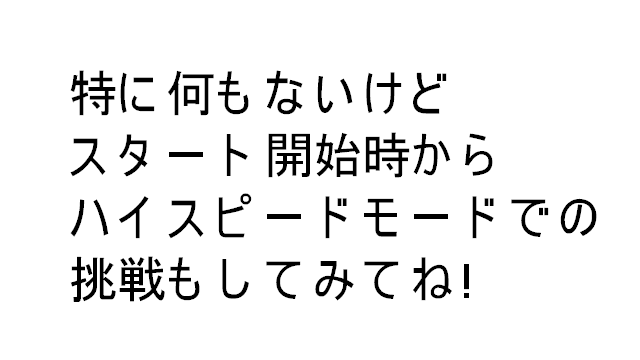
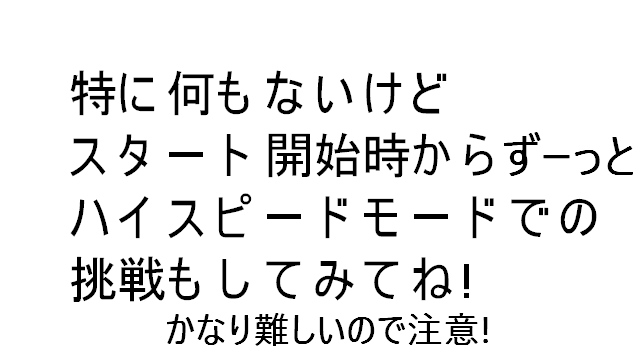
修正

Changed region(s): [[0.25, 0.8556, 0.7812, 0.9778], [0.7812, 0.3667, 1.0, 0.4889]]

diff --git a/DirectXGame/GameScene.cpp b/DirectXGame/GameScene.cpp
@@ -157,7 +157,7 @@ void GameScene::Initialize() {
 	spriteSpeed_ = Sprite::Create(textureHandleSpeed_, {600.0f, 600.0f});
 
 	// おまけフォント
-	textureHandleOmake_ = TextureManager::Load("omake2.png");
+	textureHandleOmake_ = TextureManager::Load("omake.png");
 	spriteOmake_ = Sprite::Create(textureHandleOmake_, {300.0f, 350.0f});
 
 	// ライン描画が参照するカメラを指定する(アドレス渡し)
